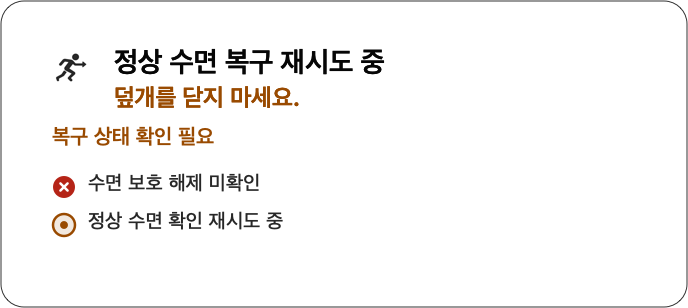
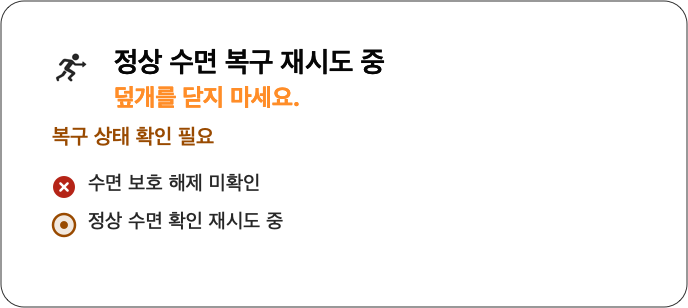
fix: macOS 열 압력 표현을 명확히 함

Changed region(s): [[0.1526, 0.263, 0.4578, 0.3506]]

diff --git a/Sources/RuntinueCLI/main.swift b/Sources/RuntinueCLI/main.swift
@@ -122,7 +122,8 @@ struct RuntinueCLI {
     print("기기")
     print("  배터리: \(device.batteryPercent.map(String.init) ?? "확인 불가")%")
     print("  전원: \(device.powerConnection.rawValue)")
-    print("  열 상태: \(device.thermalLevel.rawValue)")
+    print("  macOS 열 압력: \(device.thermalLevel.rawValue)")
+    print("    부품과 외장 표면의 직접 온도가 아닙니다.")
     print("  덮개: \(device.lidState.rawValue)")
     print("  외장 화면: \(device.externalDisplayState.rawValue)")
     print("  저전력 모드: \(device.lowPowerModeEnabled ? "켜짐" : "꺼짐")")
@@ -192,7 +193,8 @@ struct RuntinueCLI {
     print("현재 센서")
     print("  배터리: \(device.batteryPercent.map { "\($0)%" } ?? "확인 불가")")
     print("  전원: \(device.powerConnection.rawValue)")
-    print("  열 상태: \(device.thermalLevel.rawValue)")
+    print("  macOS 열 압력: \(device.thermalLevel.rawValue)")
+    print("    부품과 외장 표면의 직접 온도가 아닙니다.")
     print("  덮개: \(device.lidState.rawValue)")
 
     let currentNetwork = await network
@@ -409,7 +411,7 @@ struct RuntinueCLI {
     if status.batteryPercent != nil || status.thermalLevel != nil {
       print(
         "기기: 배터리 \(status.batteryPercent.map { "\($0)%" } ?? "확인 불가"), "
-          + "열 상태 \(status.thermalLevel ?? "확인 불가")"
+          + "macOS 열 압력 \(status.thermalLevel ?? "확인 불가")"
       )
     }
   }
@@ -497,9 +499,9 @@ struct RuntinueCLI {
     case .staleSnapshot:
       "센서 정보가 오래됨"
     case .thermalUnavailable:
-      "열 상태를 확인할 수 없음"
+      "macOS 열 압력을 확인할 수 없음"
     case .thermalLimitReached(let observed, let cutoff):
-      "열 상태 \(observed.rawValue), 중단 기준 \(cutoff.rawValue)"
+      "macOS 열 압력 \(observed.rawValue), 중단 기준 \(cutoff.rawValue)"
     case .batteryUnavailable:
       "배터리 잔량을 확인할 수 없음"
     case .batteryBelowFloor(let observed, let floor):

diff --git a/Sources/RuntinueMenuBar/MenuBarModels.swift b/Sources/RuntinueMenuBar/MenuBarModels.swift
@@ -406,7 +406,7 @@ struct MenuBarPresentation: Equatable, Sendable {
       fields.append("배터리 \(battery)%")
     }
     if let thermal = status.thermalLevel {
-      fields.append("열 \(Self.thermal(thermal))")
+      fields.append("macOS 열 압력: \(Self.thermal(thermal))")
     }
     if let detail = status.detail, !detail.isEmpty {
       fields.append(detail)
@@ -428,10 +428,10 @@ struct MenuBarPresentation: Equatable, Sendable {
 
   private static func thermal(_ level: String) -> String {
     switch level {
-    case "nominal": "정상"
-    case "fair": "약간 높음"
-    case "serious": "높음"
-    case "critical": "매우 높음"
+    case "nominal": "제한 신호 없음 (nominal)"
+    case "fair": "약간 상승 (fair)"
+    case "serious": "높음 (serious)"
+    case "critical": "매우 높음 (critical)"
     case "unknown": "확인 불가"
     default: level
     }

diff --git a/Sources/RuntinueMenuBar/RuntinueMenuBarMain.swift b/Sources/RuntinueMenuBar/RuntinueMenuBarMain.swift
@@ -436,7 +436,8 @@ private final class MenuBarDelegate: NSObject, NSApplicationDelegate {
       lines.append("현재 센서")
       lines.append("배터리: \(device.batteryPercent.map { "\($0)%" } ?? "확인 불가")")
       lines.append("전원: \(device.powerConnection.rawValue)")
-      lines.append("열 상태: \(device.thermalLevel.rawValue)")
+      lines.append("macOS 열 압력: \(device.thermalLevel.rawValue)")
+      lines.append("  부품과 외장 표면의 직접 온도가 아닙니다.")
       lines.append("덮개: \(device.lidState.rawValue)")
       lines.append("외장 화면: \(device.externalDisplayState.rawValue)")
       lines.append("")

diff --git a/Tests/RuntinueMenuBarTests/MenuBarModelsTests.swift b/Tests/RuntinueMenuBarTests/MenuBarModelsTests.swift
@@ -456,7 +456,10 @@ final class MenuBarModelsTests: XCTestCase {
     )
 
     XCTAssertEqual(presentation.statusIndicator, "✓")
-    XCTAssertTrue(presentation.detail.contains("열 정상"))
+    XCTAssertTrue(
+      presentation.detail.contains("macOS 열 압력: 제한 신호 없음 (nominal)")
+    )
+    XCTAssertFalse(presentation.detail.contains("열 정상"))
     XCTAssertTrue(presentation.detail.contains("관찰 기록 경고"))
   }
 

diff --git a/README.md b/README.md
@@ -36,7 +36,7 @@
 Runtinue는 회사나 집에서 실행 중인 로컬 에이전트 작업을 휴대전화 핫스팟이나 USB 테더링으로 이어갈 때 필요한 상태를 확인합니다.
 
 - 이동할 네트워크와 실제 인터넷 연결을 확인합니다.
-- 배터리, 전원, 열 상태와 덮개 상태를 감시합니다.
+- 배터리, 전원, macOS 열 압력과 덮개 상태를 감시합니다.
 - 사용자가 정한 시간 동안 시스템 수면 보호를 유지합니다.
 - 안전 상태를 확인할 수 없거나 기준을 벗어나면 정상 수면 복구를 우선합니다.
 
@@ -48,7 +48,7 @@ Runtinue는 덮개를 닫기 전에 네 단계를 차례로 확인합니다.
 
 1. **네트워크**: 지정한 휴대전화 핫스팟 또는 USB 테더링에 연결됐는지 확인합니다.
 2. **인터넷**: 연결된 네트워크에서 실제 인터넷에 도달하는지 확인합니다.
-3. **기기**: 배터리, 전원, 열 상태와 덮개 상태를 확인합니다.
+3. **기기**: 배터리, 전원, macOS 열 압력과 덮개 상태를 확인합니다.
 4. **보호**: macOS의 시스템 수면 설정이 실제로 적용됐는지 확인합니다.
 
 네 단계를 모두 확인한 경우에만 메뉴에 **덮개 닫기 가능**이 표시됩니다. Runtinue는 네트워크가 끊겼다는 이유만으로 이미 시작한 보호를 해제하지 않습니다. 기기 안전 조건과 만료 시간은 계속 적용합니다.
@@ -178,8 +178,8 @@ sudo ./scripts/uninstall.sh
 Runtinue는 다음 상황에서 정상 수면 복구를 우선합니다.
 
 - 배터리가 현재 환경의 기준 아래로 내려간 경우
-- 열 상태가 기준 이상으로 높아진 경우
-- 배터리, 열 상태와 덮개 상태를 확인할 수 없는 경우
+- macOS 열 압력이 기준 이상으로 높아진 경우
+- 배터리, macOS 열 압력과 덮개 상태를 확인할 수 없는 경우
 - 백그라운드 보호 서비스의 상태를 확인할 수 없는 경우
 - 사용자가 정한 보호 시간이 끝난 경우
 
@@ -196,7 +196,7 @@ Runtinue는 안전 중단 시 에이전트 작업을 저장하지 않습니다. 
 </p>
 
 <details>
-<summary><strong>배터리와 열 상태 기준 보기</strong></summary>
+<summary><strong>배터리와 macOS 열 압력 기준 보기</strong></summary>
 
 Trip의 기본 최대 시간은 90분입니다. 소프트웨어 정책은 다음 조건에서 실행 유지를 제한합니다.
 
@@ -206,7 +206,7 @@ Trip의 기본 최대 시간은 90분입니다. 소프트웨어 정책은 다음
 | AC 연결 상태이며 외부 화면이 없고 덮개가 닫힌 상태에서, 충전하지 않거나 충전 표시 중 관찰된 첫 배터리 감소가 다음 표본에서도 회복되지 않음 | 30% 기준 적용 |
 | 충전 중 배터리 10% 미만 | 비상 기준으로 실행 유지 중단 |
 | 배터리 정보 확인 불가 | 보호 제한 |
-| 외부 화면 없음, 덮개 닫힘, 열 상태 `fair` 이상 | 전원 연결과 관계없이 실행 유지 중단 |
+| 외부 화면 없음, 덮개 닫힘, macOS 열 압력 `fair` 이상 | 전원 연결과 관계없이 실행 유지 중단 |
 
 다른 덮개와 화면 조합에는 별도 기준을 적용하며 저전력 모드에서는 기준이 더 엄격해집니다. 이 수치는 소프트웨어 정책이며 안전 인증 기준이 아닙니다.
 
@@ -275,7 +275,7 @@ swift run --disable-sandbox runtinue diagnose
 이 소프트웨어는 Mac의 시스템 수면 동작을 변경하며 관리자 권한으로 설치되는 백그라운드 서비스를 사용합니다. 사용 전에 소스와 동작을 확인하고 중요한 파일을 백업하십시오.
 
 - 덮개를 닫은 상태에서도 CPU, GPU, 저장장치, 네트워크가 계속 동작할 수 있습니다. 발열, 기기 손상, 화재, 화상 위험이 남습니다. [Apple의 온도와 통풍 안내](https://support.apple.com/en-us/102336)를 따르십시오.
-- 앱은 macOS의 열 상태를 사용하며 부품과 외장 표면 온도를 직접 측정하지 않습니다. 센서 지연, 운영체제 오류, 프로세스 장애로 보호 로직이 실패할 수 있습니다. 장시간 고부하 연산, 대규모 빌드, 로컬 모델 추론을 피하십시오.
+- 앱에 표시되는 macOS 열 압력은 운영체제의 열 관리 신호이며, CPU, GPU, 배터리와 외장 표면의 직접 온도가 아닙니다. 센서 지연, 운영체제 오류, 프로세스 장애로 보호 로직이 실패할 수 있습니다. 장시간 고부하 연산, 대규모 빌드, 로컬 모델 추론을 피하십시오.
 - 핫스팟 전환 중 TCP 연결, API 요청, 원격 세션이 끊길 수 있습니다. 사용하는 에이전트의 재시도와 저장 기능을 확인하십시오.
 - 안전 조건 위반, 시간 만료, 장애로 작업이 중단되거나 결과가 손실될 수 있습니다. 사용자는 모바일 데이터 사용량과 API 요금, 배터리 소모, 작업 손실 위험을 직접 판단하고 부담합니다.
 - 모든 MacBook, macOS 버전, 핫스팟과 이동 환경을 검증하지 않았습니다. 무중단 운용, 유지보수 일정, 지원, 업데이트와 호환성을 보장하지 않습니다.
